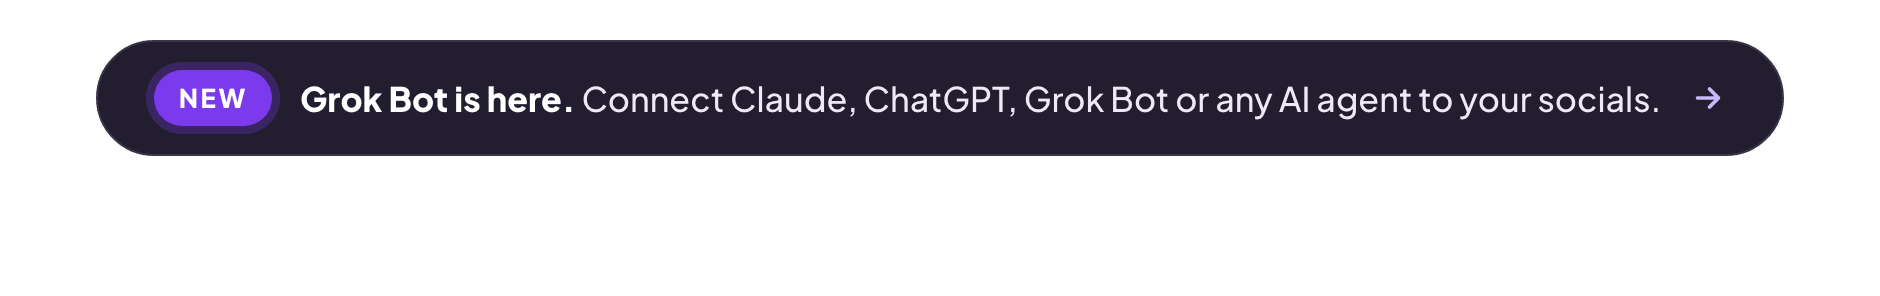
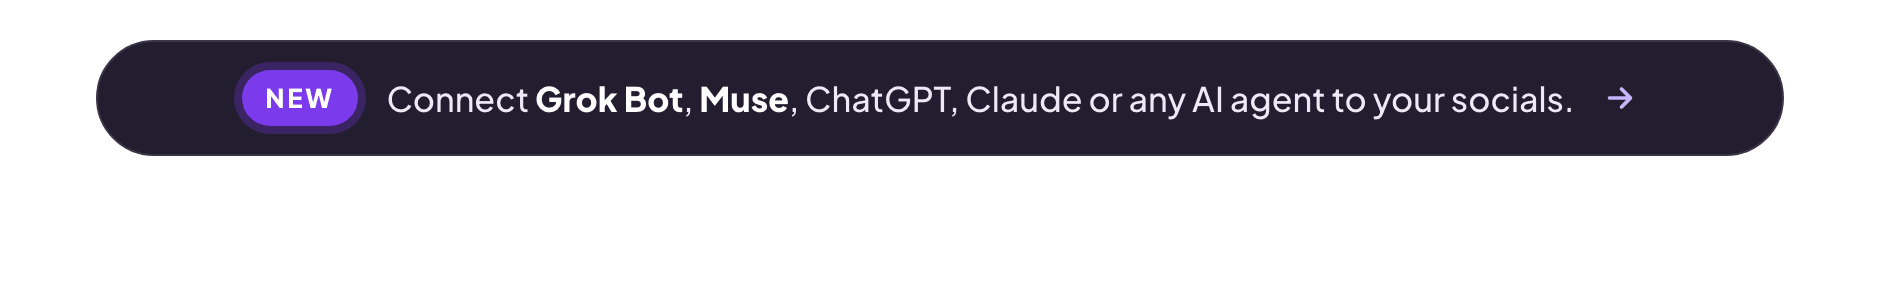
Order the README's agents the way the homepage does.
- The agents card leads with Grok Bot and Muse (both NEW), then OpenClaw
  and Hermes, Claude, ChatGPT and the rest. OpenClaw and Hermes were on
  the bottom row.
- The NEW line under the badges reads "Connect Grok Bot, Muse, ChatGPT,
  Claude or any AI agent to your socials".
- The closing band's avatars are Grok Bot, Muse, ChatGPT, Claude, OpenClaw
  and Claude Code; Muse was missing.
- The comparison card, the Cloud card and the text lists follow the same
  order and name Muse where the sentence is not about MCP only.
- The agents tables put the agents you run yourself second, before the
  coding agents.

The other five READMEs load these pictures from here, so they update too.

Changed region(s): [[0.0617, 0.1824, 0.9255, 0.4561]]

diff --git a/README.md b/README.md
@@ -8,14 +8,14 @@
 </p>
 
 <p align="center">
-  <a href="https://docs.postqueen.ai/agents/grok-bot"><picture><source media="(prefers-color-scheme: dark)" srcset=".github/assets/showcase/announce-dark.png"><img src=".github/assets/showcase/announce-light.png" width="100%" alt="New: Grok Bot is here. Connect Claude, ChatGPT, Grok Bot or any AI agent to your socials."></picture></a>
+  <a href="https://docs.postqueen.ai/agents/grok-bot"><picture><source media="(prefers-color-scheme: dark)" srcset=".github/assets/showcase/announce-dark.png"><img src=".github/assets/showcase/announce-light.png" width="100%" alt="New: connect Grok Bot, Muse, ChatGPT, Claude or any AI agent to your socials."></picture></a>
 </p>
 
 <h1 align="center">PostQueen: the AI social media scheduler</h1>
 
 <p align="center">
   Schedule posts to Instagram, TikTok, YouTube, X, LinkedIn and more, 30+ networks, from one calendar.<br>
-  Or ask <b>Claude</b>, <b>ChatGPT</b>, <b>Grok Bot</b> or any AI agent to do it through PostQueen's MCP server.<br>
+  Or ask <b>Grok Bot</b>, <b>Muse</b>, <b>ChatGPT</b>, <b>Claude</b> or any AI agent to do it through PostQueen's MCP server or API.<br>
   An open-source alternative to Buffer, Hootsuite, Later and Sprout Social.
 </p>
 
@@ -54,7 +54,7 @@
 </p>
 
 <p align="center">
-  <a href="https://docs.postqueen.ai/agents/overview"><picture><source media="(prefers-color-scheme: dark)" srcset=".github/assets/showcase/works-dark.png"><img src=".github/assets/showcase/works-light.png" width="100%" alt="Use the agent you already have: Claude, ChatGPT, Grok Bot (new), Grok, Perplexity, Muse (new), Claude Code, Codex, Cursor, Gemini CLI, VS Code, Devin Desktop, Zed, OpenClaw, Hermes, NanoClaw, Paperclip and any MCP app. Posts to 30+ networks."></picture></a>
+  <a href="https://docs.postqueen.ai/agents/overview"><picture><source media="(prefers-color-scheme: dark)" srcset=".github/assets/showcase/works-dark.png"><img src=".github/assets/showcase/works-light.png" width="100%" alt="Use the agent you already have: Grok Bot (new), Muse (new), OpenClaw, Hermes, Claude, ChatGPT, Grok, Perplexity, Claude Code, Codex, Cursor, Gemini CLI, VS Code, Devin Desktop, Zed, NanoClaw, Paperclip and any MCP app. Posts to 30+ networks."></picture></a>
 </p>
 
 ## Why PostQueen
@@ -66,7 +66,7 @@
 ## What it does
 
 - **One calendar for every channel.** Write a post once, adjust it for each network, then schedule it, keep it as a draft or publish it now. Repeat a post on an interval, preview it, and comment on it with your team.
-- **Your AI agent does the posting.** Claude, ChatGPT, Grok Bot, Claude Code, Cursor and other agents list your channels, write and schedule posts, add images and video, and read results, all through the MCP server.
+- **Your AI agent does the posting.** Grok Bot, Muse, ChatGPT, Claude, Claude Code, Cursor and other agents list your channels, write and schedule posts, add images and video, and read results, all through the MCP server or the API.
 - **AI in the composer.** The AI copilot drafts and rewrites posts. Generate images, and videos with Seedance or narrated image slides. Make avatar videos with your own HeyGen account.
 - **Analytics** for the networks that report them: X, Facebook, Instagram, LinkedIn Pages, YouTube, Threads, Pinterest, TikTok and Google Business Profile.
 - **Automation.** Auto Post publishes new items from your RSS feeds, Auto-Plugs reply or repost once a post takes off, webhooks tell your own systems when a post goes out, and time slots pick the next free time.
@@ -85,7 +85,7 @@
     <td width="50%" valign="top">
       <a href="https://docs.postqueen.ai/agents/overview"><picture><source media="(prefers-color-scheme: dark)" srcset=".github/assets/showcase/way-agent-dark.png"><img src=".github/assets/showcase/way-agent-light.png" width="100%" alt="A chat asking for a LinkedIn post and an X thread on Tuesday at 10, and the PostQueen tool that scheduled both"></picture></a>
       <h3>From an AI agent</h3>
-      Ask Claude, ChatGPT, Grok Bot or another agent in plain words. It posts through PostQueen's MCP server.<br>
+      Ask Grok Bot, Muse, ChatGPT, Claude or another agent in plain words. It posts through PostQueen's MCP server or API.<br>
       <a href="https://docs.postqueen.ai/agents/overview"><b>Connect your agent →</b></a>
     </td>
   </tr>
@@ -123,12 +123,21 @@ Connect PostQueen once, and your agent can list your channels, write and schedul
 | | Agent | Made by | Connects with | Guide |
 | --- | --- | --- | --- | --- |
 | <img src=".github/assets/agents/grok-bot.svg" width="24" height="24" alt=""> | **Grok Bot** <img src="https://img.shields.io/badge/NEW-7C3AED?style=flat-square" height="18" alt="New"> | xAI | MCP, key in the Bot's secure prompt | [Guide](https://docs.postqueen.ai/agents/grok-bot) |
+| <img src=".github/assets/agents/muse.svg" width="24" height="24" alt=""> | **Muse** <img src="https://img.shields.io/badge/NEW-7C3AED?style=flat-square" height="18" alt="New"> | Meta | Custom connector | [Guide](https://docs.postqueen.ai/agents/muse) |
 | <img src=".github/assets/agents/claude.svg" width="24" height="24" alt=""> | **Claude** | Anthropic | MCP: key address or sign-in | [Guide](https://docs.postqueen.ai/agents/claude) |
-| <img src=".github/assets/agents/chatgpt.svg" width="24" height="24" alt=""> | **ChatGPT** | OpenAI | MCP: key address or sign-in | [Guide](https://docs.postqueen.ai/agents/chatgpt) |
 | <img src=".github/assets/agents/claude.svg" width="24" height="24" alt=""> | **Claude Cowork** | Anthropic | MCP: key address or sign-in | [Guide](https://docs.postqueen.ai/agents/claude-cowork) |
+| <img src=".github/assets/agents/chatgpt.svg" width="24" height="24" alt=""> | **ChatGPT** | OpenAI | MCP: key address or sign-in | [Guide](https://docs.postqueen.ai/agents/chatgpt) |
 | <img src=".github/assets/agents/grok.svg" width="24" height="24" alt=""> | **Grok** | xAI | MCP: key address | [Guide](https://docs.postqueen.ai/agents/grok) |
 | <img src=".github/assets/agents/perplexity.svg" width="24" height="24" alt=""> | **Perplexity Computer** | Perplexity | MCP: key address | [Guide](https://docs.postqueen.ai/agents/perplexity-computer) |
-| <img src=".github/assets/agents/muse.svg" width="24" height="24" alt=""> | **Muse** <img src="https://img.shields.io/badge/NEW-7C3AED?style=flat-square" height="18" alt="New"> | Meta | Custom connector | [Guide](https://docs.postqueen.ai/agents/muse) |
+
+**Agents you run yourself**
+
+| | Agent | Made by | Connects with | Guide |
+| --- | --- | --- | --- | --- |
+| <img src=".github/assets/agents/openclaw.svg" width="24" height="24" alt=""> | **OpenClaw** | OpenClaw | The CLI and skill, from WhatsApp, Telegram, Slack or Discord | [Guide](https://docs.postqueen.ai/agents/openclaw) |
+| <img src=".github/assets/agents/hermes.svg" width="24" height="24" alt=""> | **Hermes Agent** | Nous Research | MCP config | [Guide](https://docs.postqueen.ai/agents/hermes) |
+| <img src=".github/assets/agents/nanoclaw.svg" width="24" height="24" alt=""> | **NanoClaw** | NanoCo | MCP with a Bearer header | [Guide](https://docs.postqueen.ai/agents/nanoclaw) |
+| <img src=".github/assets/agents/paperclip.svg" width="24" height="24" alt=""> | **Paperclip** | Paperclip AI | MCP with a Bearer header | [Guide](https://docs.postqueen.ai/agents/paperclip) |
 
 **Coding agents and editors**
 
@@ -143,15 +152,6 @@ Connect PostQueen once, and your agent can list your channels, write and schedul
 | <img src=".github/assets/agents/devin-desktop.svg" width="24" height="24" alt=""> | **Devin Desktop** | Cognition | MCP config | [Guide](https://docs.postqueen.ai/agents/devin-desktop) |
 | <img src=".github/assets/agents/zed.svg" width="24" height="24" alt=""> | **Zed** | Zed Industries | MCP config | [Guide](https://docs.postqueen.ai/agents/zed) |
 | <img src=".github/assets/agents/muse-code.svg" width="24" height="24" alt=""> | **Muse Code** | Meta | MCP config | [Guide](https://docs.postqueen.ai/agents/muse-code) |
-
-**Agents you run yourself**
-
-| | Agent | Made by | Connects with | Guide |
-| --- | --- | --- | --- | --- |
-| <img src=".github/assets/agents/openclaw.svg" width="24" height="24" alt=""> | **OpenClaw** | OpenClaw | The CLI and skill, from WhatsApp, Telegram, Slack or Discord | [Guide](https://docs.postqueen.ai/agents/openclaw) |
-| <img src=".github/assets/agents/hermes.svg" width="24" height="24" alt=""> | **Hermes Agent** | Nous Research | MCP config | [Guide](https://docs.postqueen.ai/agents/hermes) |
-| <img src=".github/assets/agents/nanoclaw.svg" width="24" height="24" alt=""> | **NanoClaw** | NanoCo | MCP with a Bearer header | [Guide](https://docs.postqueen.ai/agents/nanoclaw) |
-| <img src=".github/assets/agents/paperclip.svg" width="24" height="24" alt=""> | **Paperclip** | Paperclip AI | MCP with a Bearer header | [Guide](https://docs.postqueen.ai/agents/paperclip) |
 
 Any other MCP client works with the same addresses: see [other MCP clients](https://docs.postqueen.ai/agents/other-mcp-clients).
 
@@ -219,7 +219,7 @@ curl https://api.postqueen.ai/public/v1/integrations -H "Authorization: YOUR_API
 | Route | Use it for | Start here |
 | --- | --- | --- |
 | App | Calendar, composer, copilot, analytics, team | [Start a 7-day trial](https://app.postqueen.ai/auth?utm_source=github&utm_medium=readme&utm_campaign=postqueen-app&utm_content=ways-in) |
-| MCP | AI agents such as Claude, ChatGPT, Grok Bot, Cursor and Codex | [MCP guide](https://docs.postqueen.ai/mcp/introduction) |
+| MCP | AI agents such as Grok Bot, ChatGPT, Claude, Codex and Cursor | [MCP guide](https://docs.postqueen.ai/mcp/introduction) |
 | CLI | Terminals, scripts and coding agents | [postqueen-agent](https://github.com/GkhanKINAY/postqueen-agent) |
 | REST API | Your own code | [API reference](https://api.postqueen.ai/docs) · [API guide](https://docs.postqueen.ai/public-api/introduction) |
 | Node SDK | Typed calls from Node.js | [`@postqueen/node`](https://www.npmjs.com/package/@postqueen/node) · [SDK guide](https://docs.postqueen.ai/public-api/sdk) |

diff --git a/apps/sdk/README.md b/apps/sdk/README.md
@@ -8,13 +8,13 @@
   <a href="https://github.com/GkhanKINAY/postqueen-app/blob/main/LICENSE"><img src="https://img.shields.io/badge/license-AGPL--3.0-2563EB?labelColor=15131C" alt="License: AGPL-3.0"></a>
 </p>
 
-<a href="https://docs.postqueen.ai/agents/grok-bot"><img src="https://raw.githubusercontent.com/GkhanKINAY/postqueen-app/main/.github/assets/showcase/announce-light.png" width="100%" alt="New: Grok Bot is here. Connect Claude, ChatGPT, Grok Bot or any AI agent to your socials."></a>
+<a href="https://docs.postqueen.ai/agents/grok-bot"><img src="https://raw.githubusercontent.com/GkhanKINAY/postqueen-app/main/.github/assets/showcase/announce-light.png" width="100%" alt="New: connect Grok Bot, Muse, ChatGPT, Claude or any AI agent to your socials."></a>
 
 <p><a href="https://app.postqueen.ai/auth?utm_source=npm&utm_medium=readme&utm_campaign=postqueen-sdk&utm_content=npm-button"><img src="https://raw.githubusercontent.com/GkhanKINAY/postqueen-app/main/.github/assets/showcase/btn-trial-light.png" width="351" alt="Start 7-day trial for $0"></a><a href="https://docs.postqueen.ai/agents/overview"><img src="https://raw.githubusercontent.com/GkhanKINAY/postqueen-app/main/.github/assets/showcase/btn-agent-light.png" width="325" alt="Connect your AI agent"></a></p>
 
 <sub><b>$0 due today.</b> A card is required, and you pay nothing if you cancel within 7 days.</sub>
 
-<a href="https://docs.postqueen.ai/agents/overview"><img src="https://raw.githubusercontent.com/GkhanKINAY/postqueen-app/main/.github/assets/showcase/works-light.png" width="100%" alt="Use the agent you already have: Claude, ChatGPT, Grok Bot (new), Grok, Perplexity, Muse (new), Claude Code, Codex, Cursor, Gemini CLI, VS Code, Devin Desktop, Zed, OpenClaw, Hermes, NanoClaw, Paperclip and any MCP app. Posts to 30+ networks."></a>
+<a href="https://docs.postqueen.ai/agents/overview"><img src="https://raw.githubusercontent.com/GkhanKINAY/postqueen-app/main/.github/assets/showcase/works-light.png" width="100%" alt="Use the agent you already have: Grok Bot (new), Muse (new), OpenClaw, Hermes, Claude, ChatGPT, Grok, Perplexity, Claude Code, Codex, Cursor, Gemini CLI, VS Code, Devin Desktop, Zed, NanoClaw, Paperclip and any MCP app. Posts to 30+ networks."></a>
 
 Typed Node client for the [PostQueen](https://postqueen.ai) public API. Schedule posts, upload
 media and read your connected channels across 30+ networks, from X and LinkedIn to TikTok and
